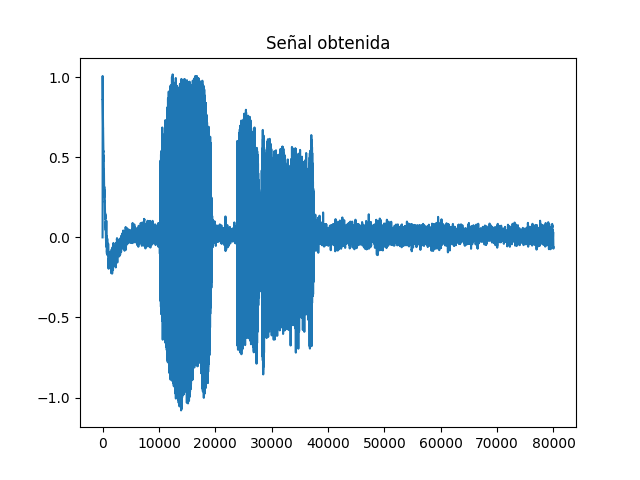
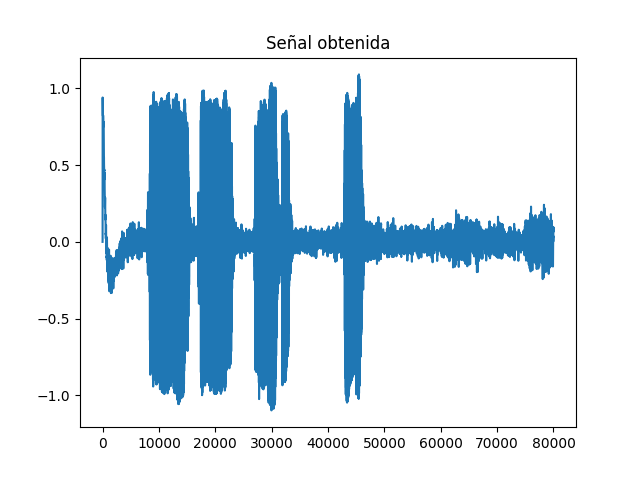
se añadio un boton a la interface para seleccionar que audio escuchar

diff --git a/principio_fin_palabra/algoritmo_de_principio_y_fin.py b/principio_fin_palabra/algoritmo_de_principio_y_fin.py
@@ -20,12 +20,12 @@ def grabar():
     global y, fs
 
     fs = 8000  # Sample rate
-    seconds = 10  # Duration of recording
-    lblgrabando = Label(ventana, text="Grabando...",font=("Consolas", 14)).place(x=150, y=550)
+    seconds = 10
     print("grabando")
     myrecording = sd.rec(int(seconds * fs), samplerate=fs, channels=1)
     sd.wait()  # Wait until recording is finished
     wavio.write('audio.wav', myrecording, fs, sampwidth=3)  # Save as WAV file
+    print("Guardado")
 
     # Traer datos de audio
     fs, y = wavfile.read("audio.wav")
@@ -80,7 +80,7 @@ def grabar():
 
 def procesar():
 
-    global y, fs
+    global y, fs, n_palabras, pos
 
     n = 0
     l = len(y)
@@ -124,7 +124,7 @@ def procesar():
     pos = []
     contador = 0
 
-    # reemplazar valores que no deben estas, falta revisión
+    # reemplazar valores que no deben estar, falta revisión
     for j in senal_cuadrada:
 
         if j != senal_cuadrada[contador-1]:
@@ -183,18 +183,54 @@ def procesar():
             wavio.write(actualname, y[pos[contador]:pos[contador+1]], fs, sampwidth=3)
 
         i += 1
-        contador += 2        
- 
+        contador += 2
+    
+    print(pos)
+    return n_palabras, pos
+
+        
+
+def mostrar():
+
+    global n_palabras, audio, pos, fs
+    
+    audio = audio.get()
+
+    n = int(str(audio))
+
+    posicion = n + n -2
+
+    if n > n_palabras or n < 1:
+        print(f'Ingrese un número entre {1} y {n_palabras}')
+    else:
+        tamaño = y[pos[posicion]:pos[posicion+1]]
+        wavio.write('pruebax.wav', tamaño, fs, sampwidth=3)  # Save as WAV file
+        playsound('/home/angie/Git/python_dsp/principio_fin_palabra/pruebax.wav')
+        plt.figure(1)
+        plt.plot(tamaño)
+        plt.show()
+
+    
+
+
+
 ventana = Tk()
 
-ventana.geometry("600x600+100+200") # Geometria de la ventana
-ventana.title("Nombre del formulario") # Nombre de la interface
+ventana.geometry("400x200+100+200") # Geometria de la ventana
+ventana.title("Principio y fin de palabra") # Nombre de la interface
 
-img = PhotoImage(file="senal_data.png")
+lblaudio = Label(text="Mostrar: ", fg="black", font=("Consolas",14)).place(x=30,y=100)
+audio = StringVar()
+txtaudio = Entry(ventana, textvariable = audio).place(x=210,y=100)
+
+
+""" img = PhotoImage(file="senal_data.png")
 widget = Label(ventana, image=img).pack()
-
+ """
 # creación bontones
-btngrabar = Button(ventana,text="Grabar",command = grabar,font=("Consolas",14)).place(x=100,y=500) # Creación del boton saludar 
-btnprocesar = Button(ventana,text="Procesar",command = procesar,font=("Consolas",14)).place(x=300,y=500) # Creación del boton saludar 
+btngrabar = Button(ventana,text="Grabar", bg="pink",command = grabar,font=("Consolas",14)).place(x=50,y=50) # Creación del boton saludar 
+btnprocesar = Button(ventana,text="Procesar", bg="pink",command = procesar,font=("Consolas",14)).place(x=250,y=50) # Creación del boton saludar 
+btnescuchar = Button(ventana,text="Mostrar", bg="pink",command = mostrar,font=("Consolas",14)).place(x=100,y=150) # Creación del boton saludar 
+
 
 ventana.mainloop() # Mostrar ventana
